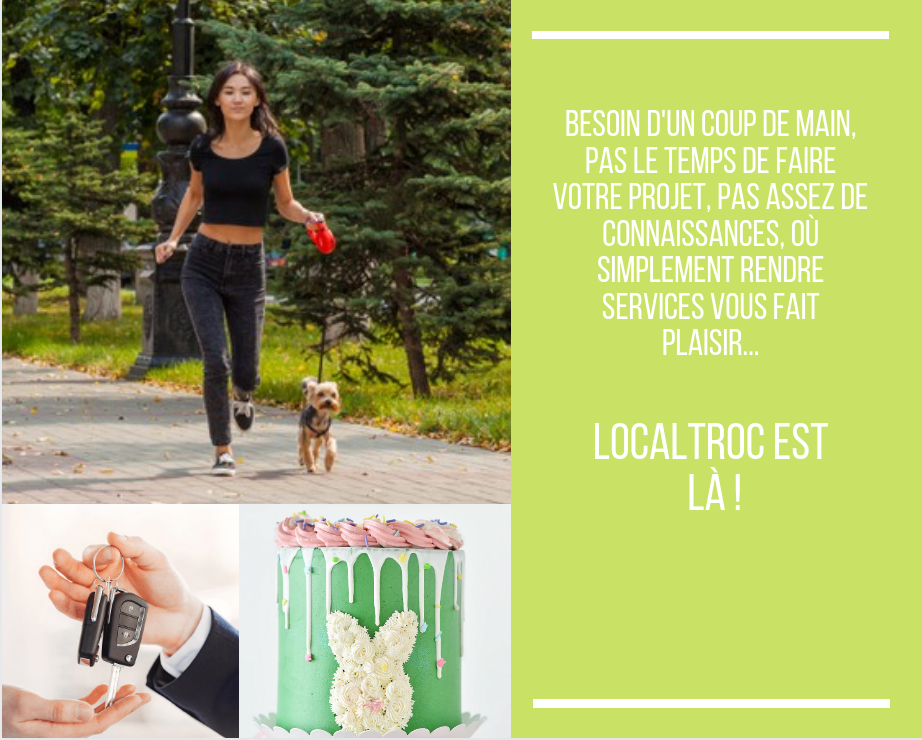
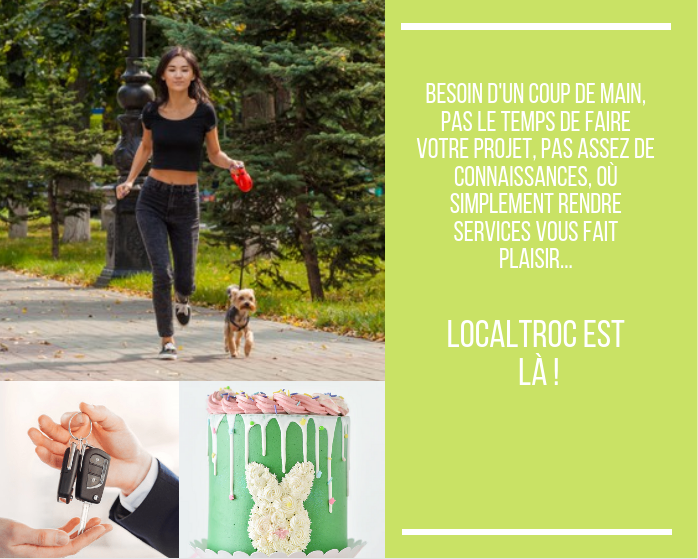
carousel

diff --git a/style.css b/style.css
@@ -30,15 +30,15 @@
 .section1 {
     background: linear-gradient(135deg, #08c1ef 0%, #c9e265 100%);
     width: 100%;
-    height: 35rem;
+    height: 38rem;
 }
 
 /*videoImg*/
-#carousel {
+#videoImg {
     display: flex;
     justify-content: center;
     align-content: center;
-    box-shadow:  #6c757d;
+    padding-top: 2rem;
 }
 
 /*my "slide"*/
@@ -118,7 +118,6 @@ h2 {
 
 #brefText span {
     font-weight: bold;
-    font-size: xx-large;
 }
 
 .btn {
@@ -127,11 +126,10 @@ h2 {
     border: 2px solid #fff;
     color: white;
     background-color: transparent;
-    border-radius: 100%;
+    border-radius: 30px;
     font-size: 1rem;
     line-height: 1.8;
     cursor: wait;
-
 }
 
 .btn {

diff --git a/assets/js/app.js b/assets/js/app.js
@@ -8,11 +8,11 @@ let arrayImg =[img1,img2,img3];
 
 div.style.cssText =
     `
-    padding-top: 3rem;
     width: 50%;
     height: 31vw;
     display: flex;
     margin-left: 27rem;
+    box-shadow: 2px 1px 8px 5px #6c757d;
     `;
 
 carrousel.appendChild(div);
@@ -21,6 +21,7 @@ div.className = "videoImg";
 
 let i = 0;
 
+/*videoIMg LocalTroc*/
 function videoImg() {
      setTimeout(function () {
         div.src = arrayImg[i];
@@ -31,9 +32,7 @@ function videoImg() {
         videoImg()
     },2000)
 }
-
 videoImg();
-
 
 /*my carousel*/
 let imgs = document.querySelectorAll(".imgArtcls");
@@ -42,5 +41,6 @@ for(let a = 0; a < imgs.length; a++) {
 }
 
 function carousel() {
+    
 
 }

diff --git a/index.html b/index.html
@@ -1,0 +1,17 @@
+<!DOCTYPE html>
+<html lang="en">
+<head>
+    <meta charset="UTF-8">
+    <title>Title</title>
+</head>
+<body>
+<div class="container">
+    <div class="title"> UN</div>
+    <div id="carousel1"></div>
+    <div id="carousel2"></div>
+    <div id="carousel3"></div>
+</div>
+
+    <script src="script.js"></script>
+</body>
+</html>

diff --git a/index.php b/index.php
@@ -16,12 +16,12 @@
         <!--main menu-->
         <div class="nav-section">
             <img id="logo" src="assets/img/logo.png" alt="logoSite">
-            <div> services</div>
+            <div> Services</div>
             <div> A propros</div>
             <div>Recherche rapide</div>
-            <div>blog</div>
-            <div> partager</div>
-            <div>se connecter</div>
+            <div>Blog</div>
+            <div>Partager</div>
+            <div>Se connecter</div>
         </div>
     </header>
     <section>
@@ -124,9 +124,10 @@
   </div>
 
  <footer>
-     Footer ( lien vers réseaux)
+
      <span>By Elogeek</span>
  </footer>
+
     <script src="./assets/js/app.js"></script>
 </body>
 </html>
